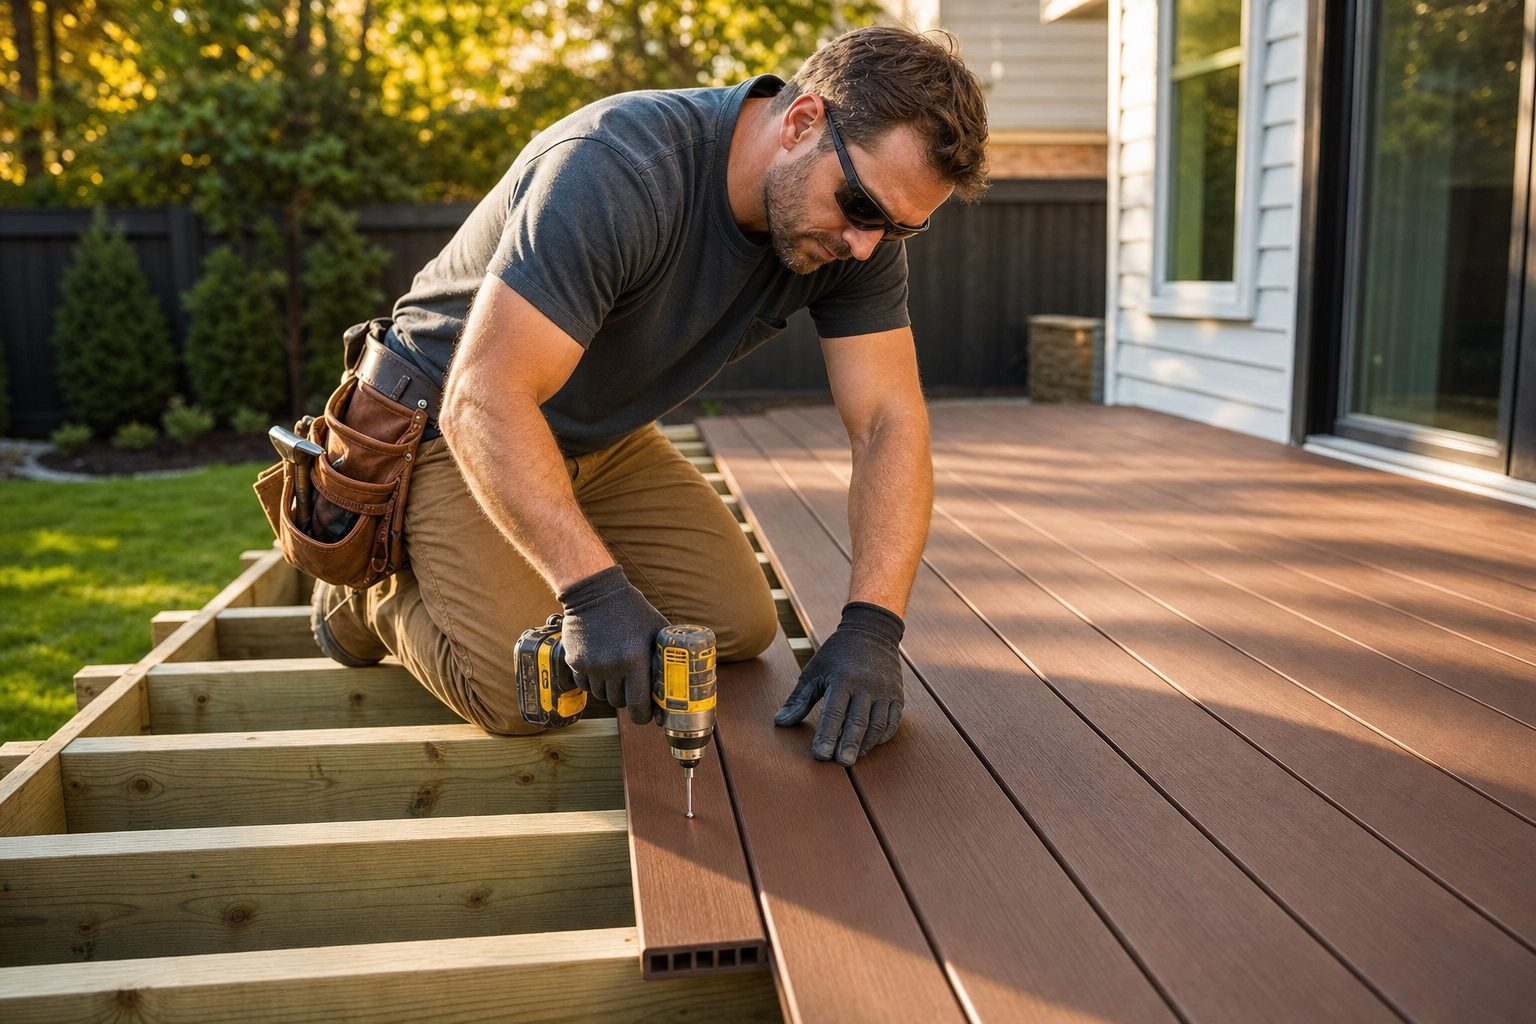
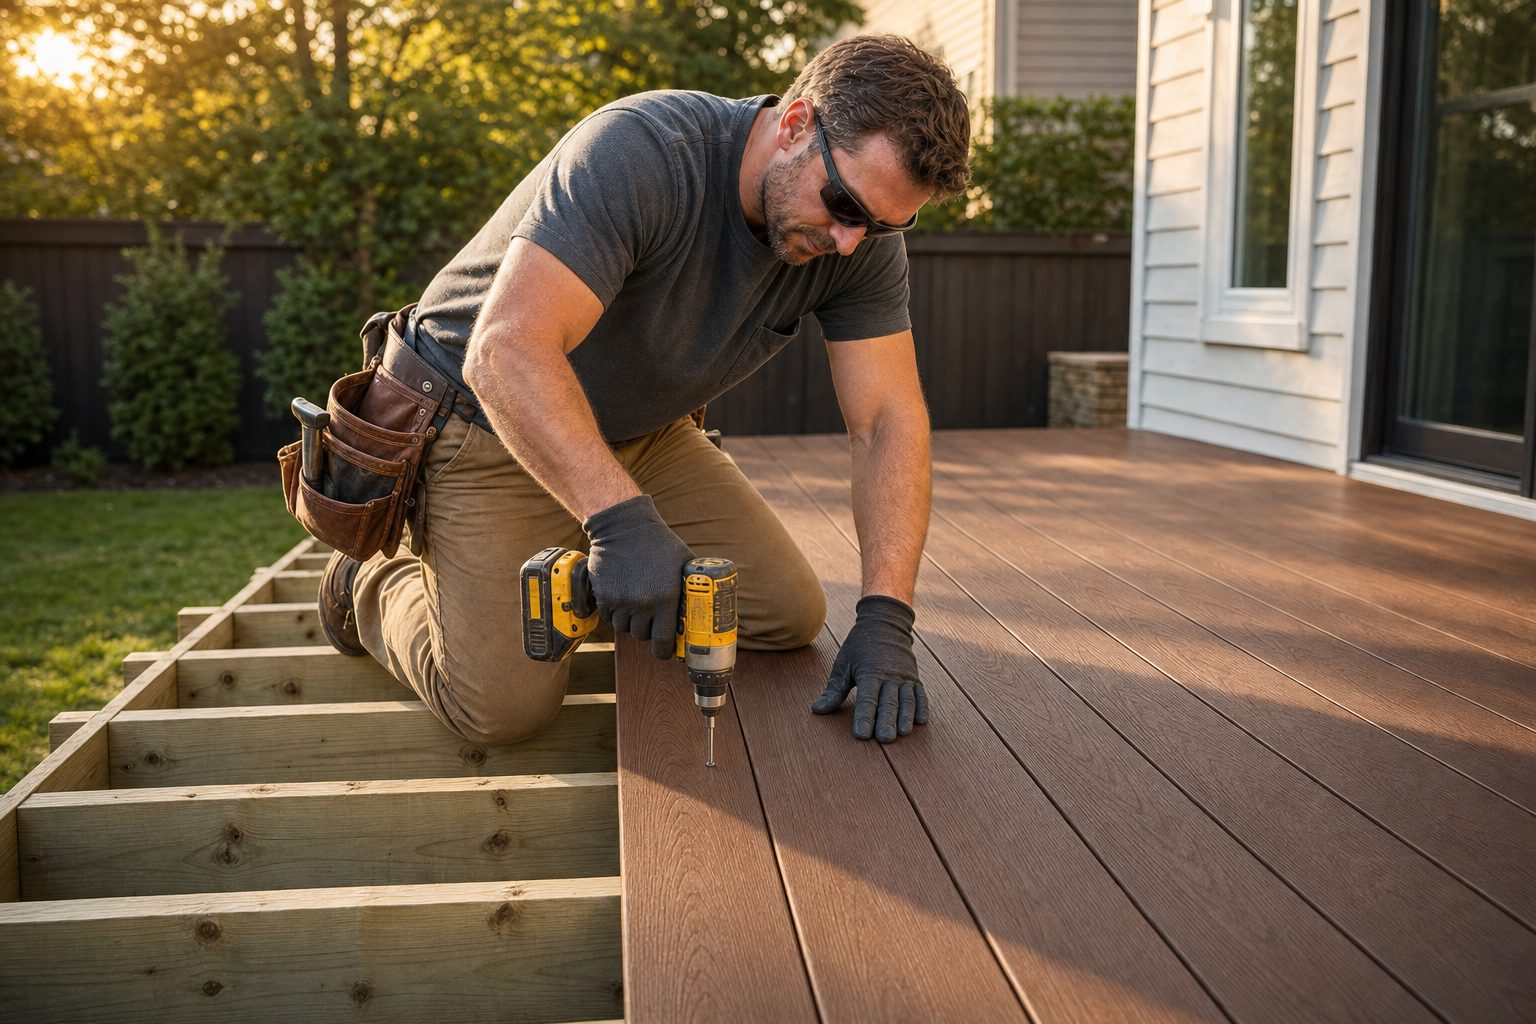
Remove seal close-up image; replace hero with solid-core board render

diff --git a/blog/installing-ameridex-pro-guide.html b/blog/installing-ameridex-pro-guide.html
@@ -209,11 +209,6 @@
       <h2>What the system actually is</h2>
       <p>The AmeriDex Dryspace System is two engineered parts working as one. The boards are cellular PVC with a proprietary ASA cap, so they will not rot, splinter, or feed mold, and they hold color in full sun. The drainage is the <strong>Dexerdry</strong> seal, an automotive-grade TPE component that locks into a routed channel on the edge of every board. Together they form an above-joist system: water sheds off the surface and the joists, beams, ledger, and fasteners stay dry. There is no below-deck tray to hang and no membrane to flash, because the water never gets past the deck surface in the first place.</p>
 
-      <figure class="blog-figure framed">
-        <img src="../assets/img/blog/pro-install-seal.jpg" alt="Close-up of the Dexerdry TPE seal being seated into the routed edge channel of a cellular PVC deck board, water beading on the surface" loading="lazy">
-        <figcaption>The Dexerdry seal seats into the routed edge channel. Its barbs grip, the wings sit captured under the board lip, and surface water is diverted instead of dropping onto the framing.</figcaption>
-      </figure>
-
       <h2>Frame for drainage, not just for span</h2>
       <p>A good AmeriDex deck starts before a single board is set. The key thing to understand is that you frame the deck conventionally. Because the Dexerdry seal fills the gap between boards when it is properly compressed, you do <strong>not</strong> re-frame to angle the boards away from the house. Run the deck boards parallel to the house and let the system shed water off the overhanging edges. Set up your framing for that.</p>
       <ul>